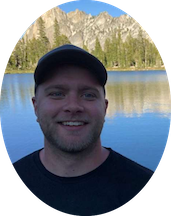
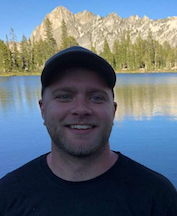
changed my photo/ adjusted cols

diff --git a/index.html b/index.html
@@ -36,7 +36,7 @@
 		</div>
 		<h2 style="text-align: center;">Recent Projects </h2>
 		<div class="row">
-			<div class="col justify-content-center">
+			<div class="col-lg-6 mb-4">
 				<div class="card border-success mb-3" style="max-width: 20rem;">
 					<div class="card-header">Environmental Database and Mapping</div>
 					<div class="card-body">
@@ -45,7 +45,7 @@
 					</div>
 				</div>
 			</div>
-			<div class="col justify-content-center">
+			<div class="col-lg-6 mb-4">
 				<div class="card border-success mb-3" style="max-width: 20rem;">
 					<div class="card-header">Lassa virus Database and Mapping</div>
 					<div class="card-body">
